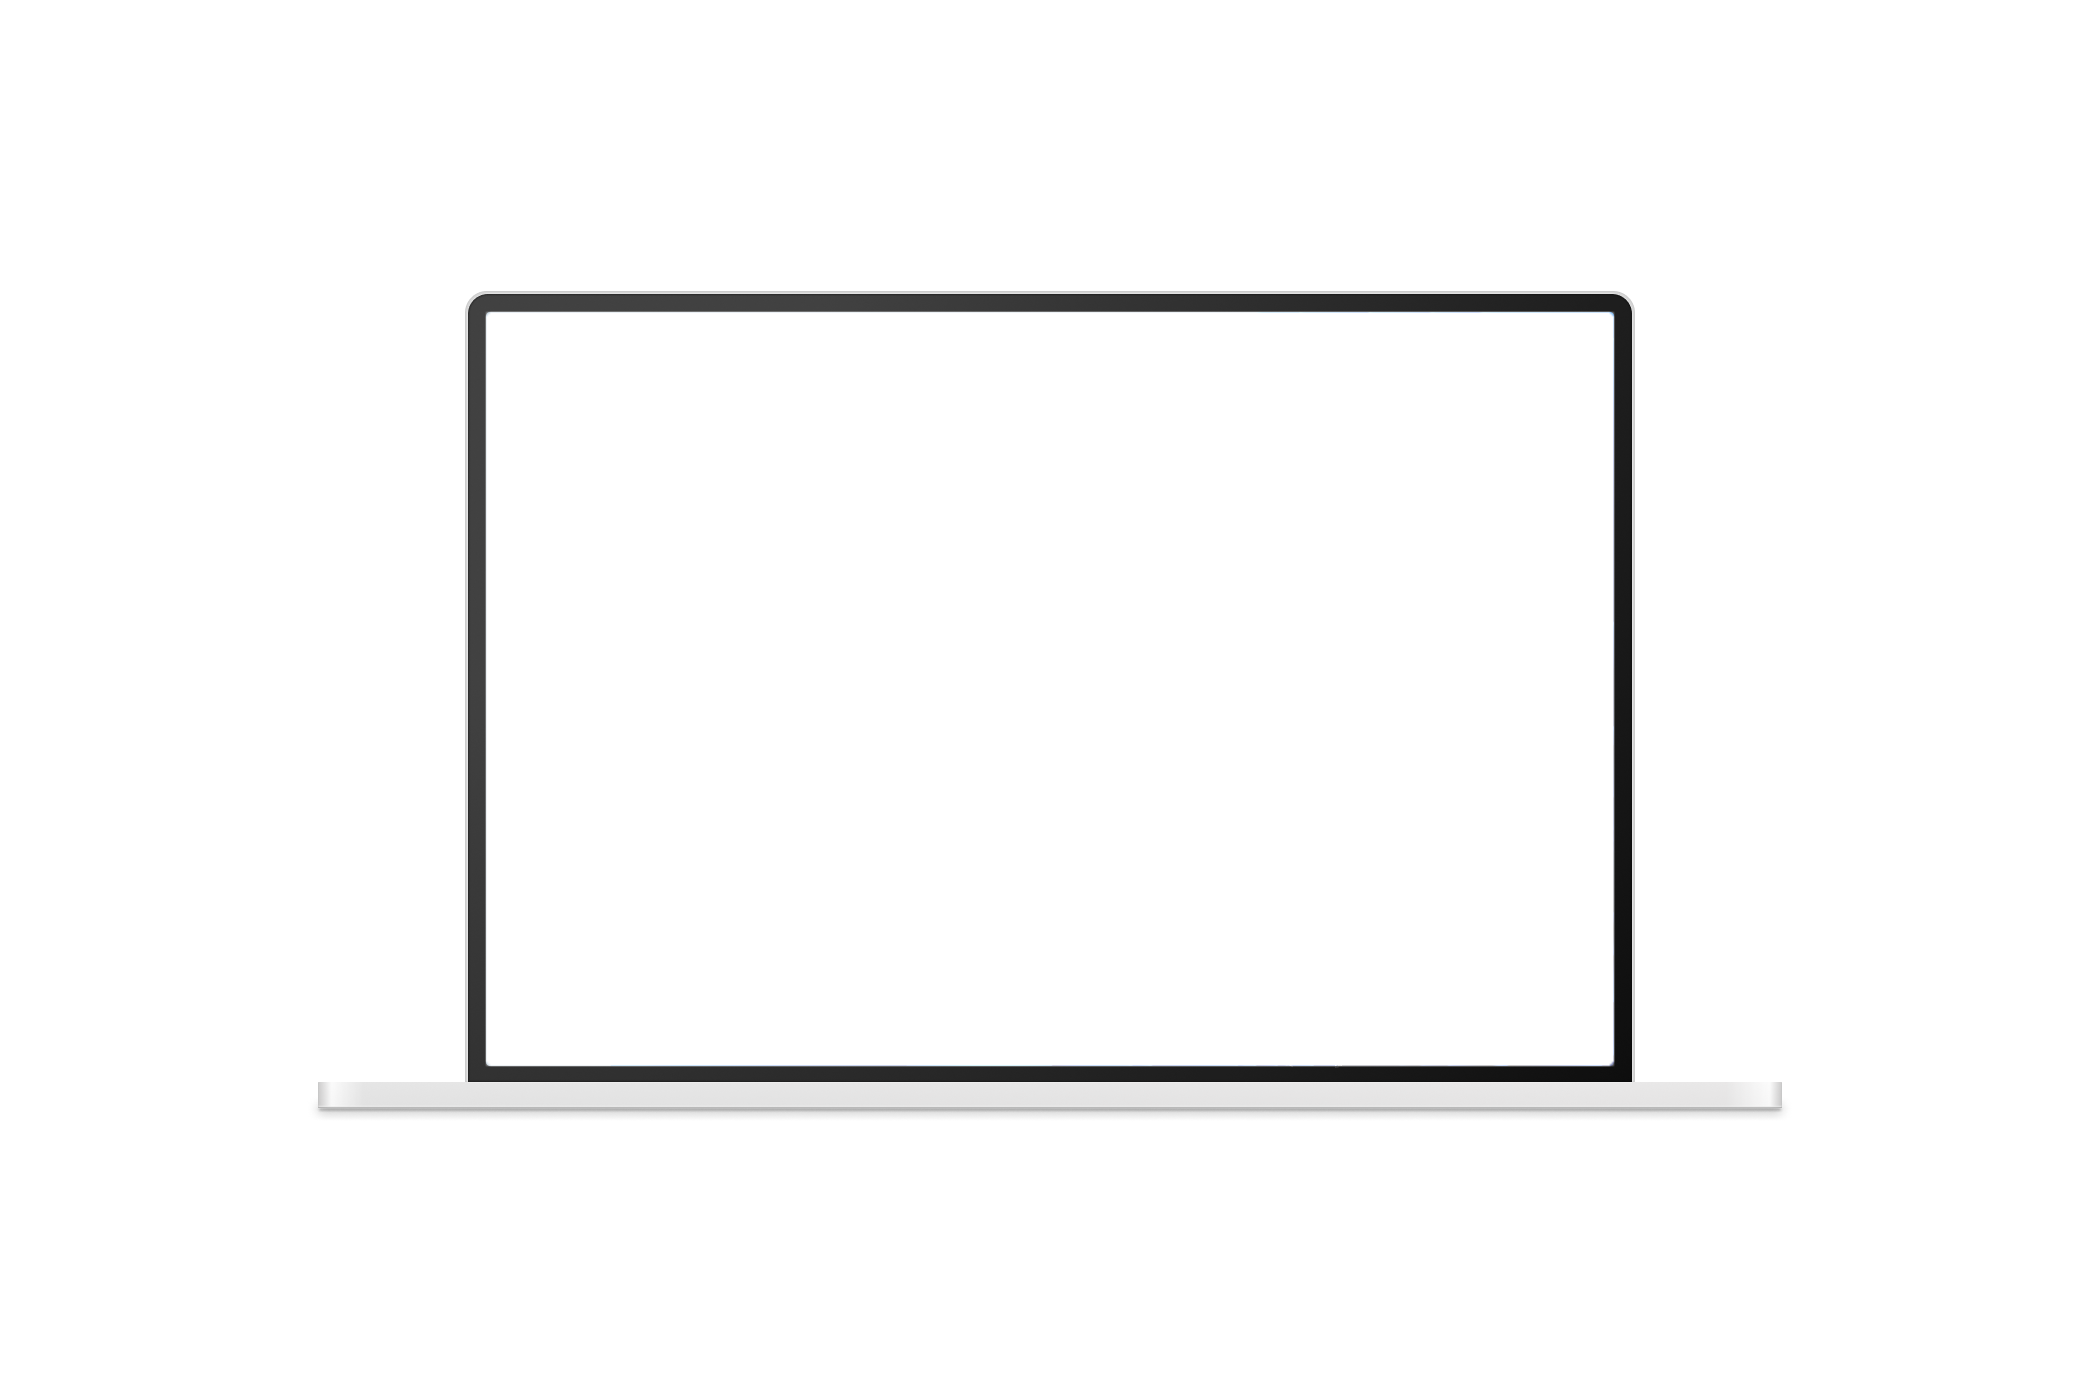
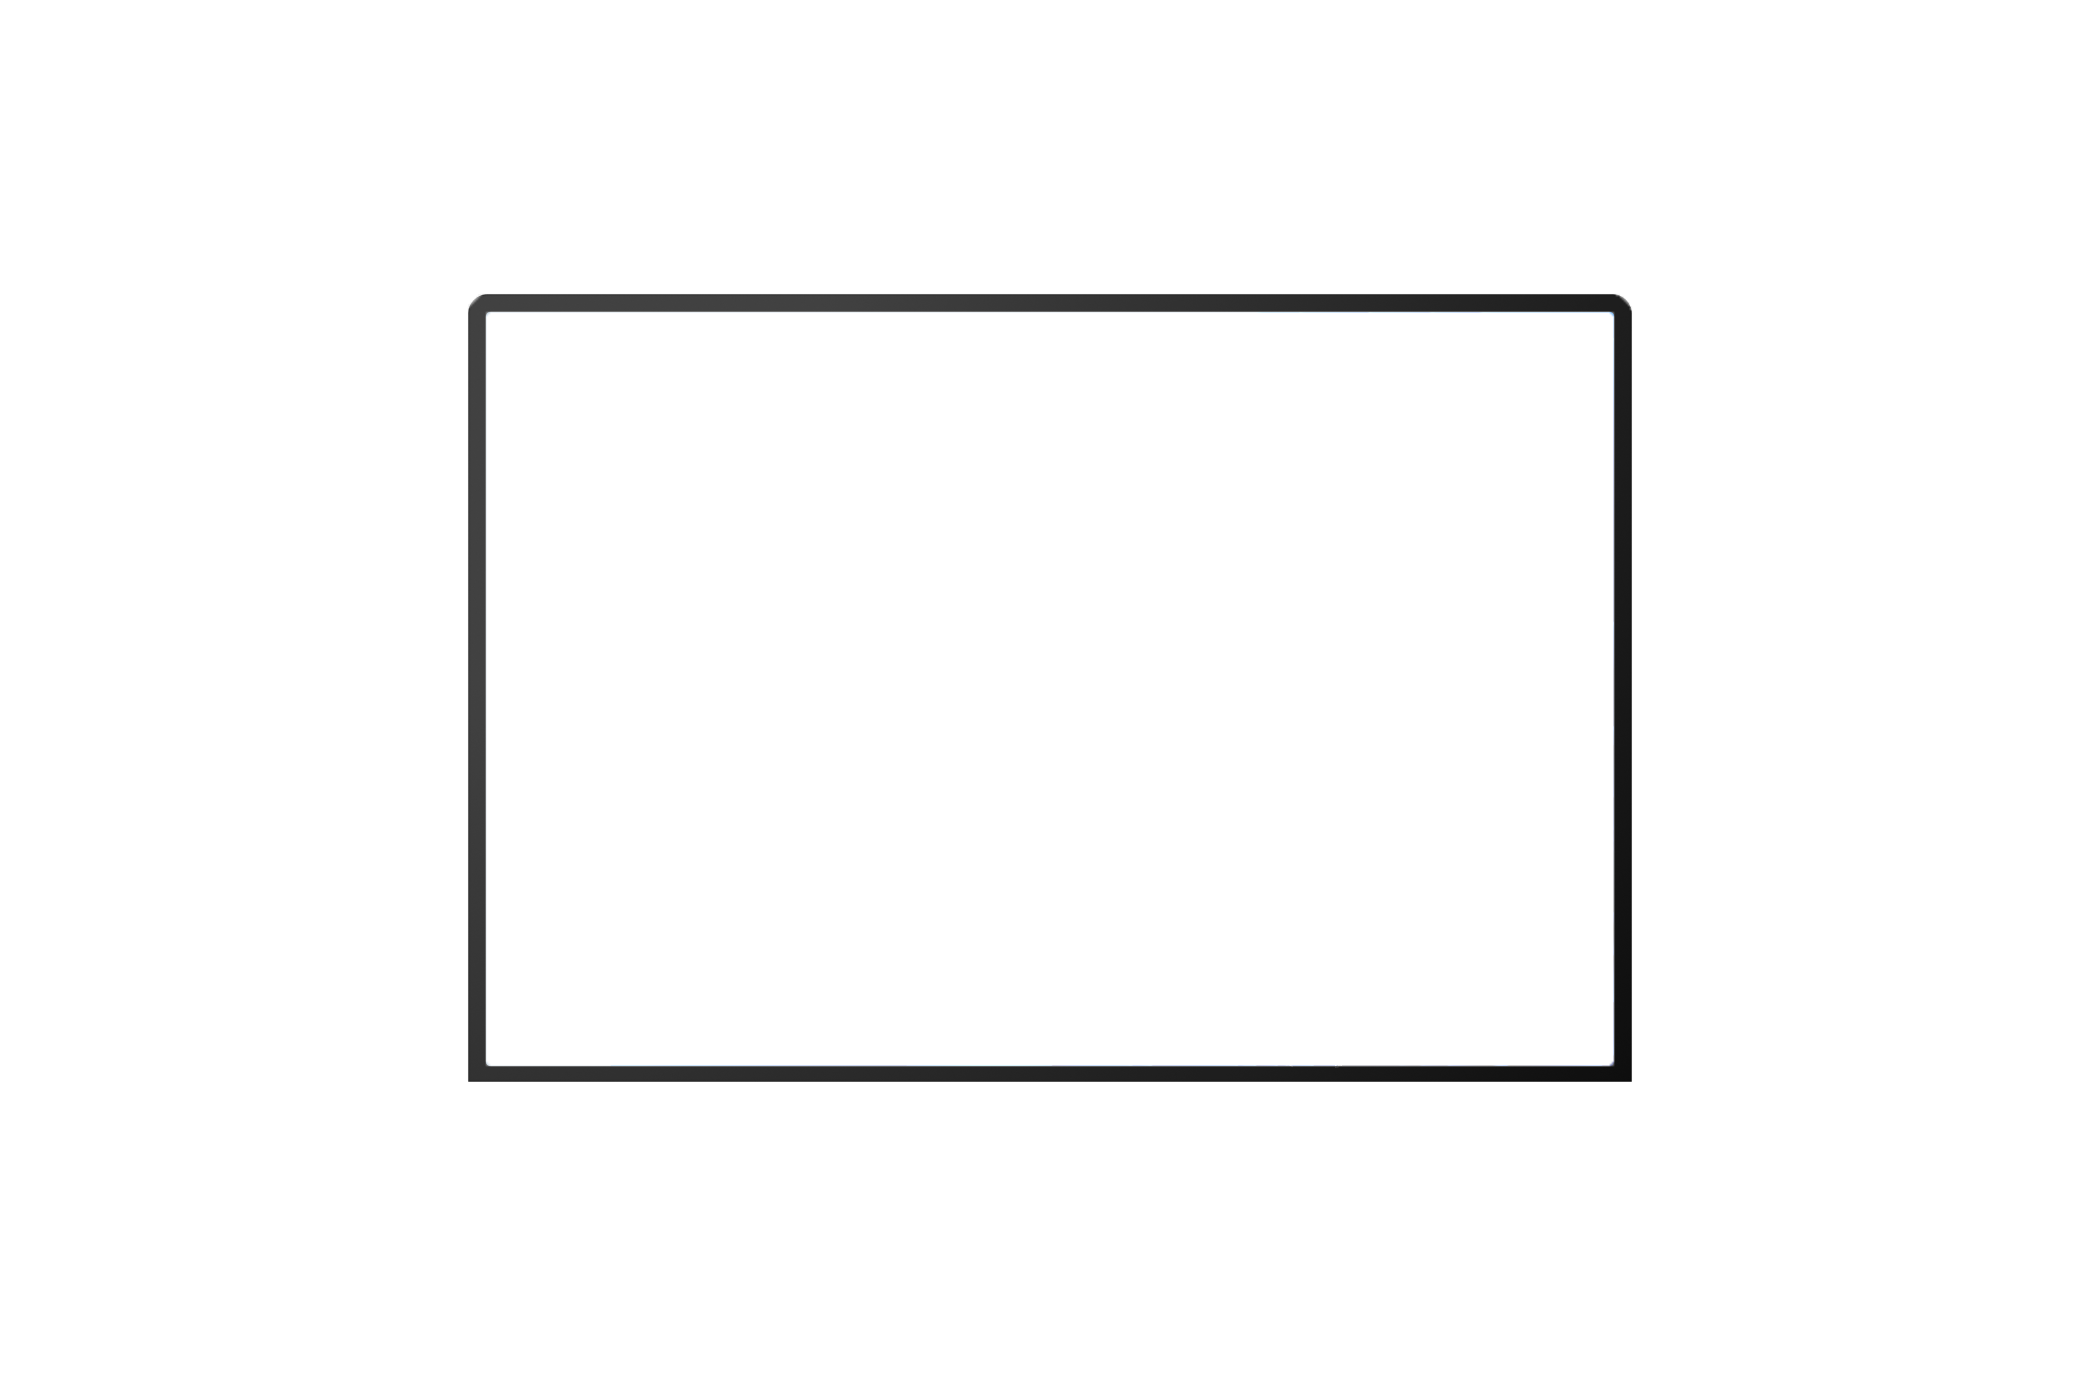
2025-03-28

Changed region(s): [[0.1548, 0.7679, 0.8667, 0.7986]]

diff --git a/src/css/Work.css b/src/css/Work.css
@@ -13,60 +13,45 @@
 }
 #Work .Work_container{
   width: 100%;
-  margin: auto;
-  position: relative;    
-  box-shadow: 2px 2px 20px #AEA9BA;
+  margin: auto;  
+  position: relative;
 }
 #Work .Work_container .Work_item{
   width: 100%;
   display: flex;
   justify-content: space-between;
-  align-items: center;        
+  align-items: center;          
 }
-#Work .Work_container .slide_btn{  
-  cursor: pointer;      
-  display: flex;
-  justify-content: center;
-  align-items: center;
-  position: absolute;
-  top: 100%;
-  right: 3%;
-  padding: 16px;    
-}
-#Work .Work_container .slide_btn>figure{  
-  width: 32px;
-  height: 32px;    
-  margin: 0 16px;
-}
-#Work .Work_container .Work_item .Work_L{
-  width: calc(100%-148px)/2;        
-  font-weight: 700;
-  gap: 16px;        
-  height: 70vh;  
-  flex: 1;
-}
-#Work .Work_container .Work_item .Work_L .Work_image{
-  width: calc(100%-148px)/2;  
-  height: 70vh;  
+.Work_item{  
+  width: 100%;
+  max-width: 1600px;
+  display: flex;  
+  gap: 16px;  
   overflow: hidden;
-  font-size: 2rem;  
-  gap: 16px;        
   position: relative;
 }
-#Work .Work_container .slide_number{    
-  position: absolute;
-  top: 100%;
-  left: 3%;
-  padding: 16px;      
-  font-size: 1.2rem;
-  font-weight: 500;
+.Work_item .Work_L{
+  width: 50%;
+  height: 70vh;    
+  overflow: hidden;  
 }
-.img_container{    
-  display: flex;
-  flex-direction: column;
-  align-items: center;  
-  gap: 24px;
-  background-color: #fff;  
+.Work_L .Work_image{
+  width: 100%;
+  position: relative;    
+}
+.Work_image .img_frame{   
+  position: absolute;      
+  top: 0%;
+  left: 0%;    
+  transform: scale(1.7);
+  overflow: hidden;    
+  margin: 0 auto;
+  align-content: center;
+}
+.Work_image .img_container{
+  width: 100%;
+  height: 50vh;
+  overflow: hidden; 
 }
 .Work_image_info{
   text-align: center;
@@ -77,12 +62,14 @@
 }
 #Work .Work_container .Work_item .Work_description{  
   width: 100%;
-  height: 80vh;  
-  border-left: 2px dashed #494554;    
-  overflow: hidden;  
-  padding: 2%;
+  height: 80vh;         
+  padding: 2%;  
   align-self: flex-start;  
   flex: 1;
+  z-index: 1;
+}
+.Work_description .Work_Time{
+  margin-bottom: 32px !important;
 }
 .Work_description .Work_title,
 .Work_description .Work_Time,
@@ -91,38 +78,70 @@
 .Work_description .uiux .Work_UIUX{    
   display: flex;  
   align-items: center;        
-  margin: 20px auto;    
+  margin: 8px auto;      
 }
 .Work_description .item_more{
   margin: 20px auto;  
   font-size: 1.2rem;
-  font-weight: 700;
+  font-weight: 700;  
 }
 .Work_description .item_more:hover{
-  color: #9481EB;
+  color: #9481EB;  
 }
 .design_Element>.Element{
   display: flex;      
   justify-content: flex-start;
   align-items: center;    
   gap: 8px;
-  font-size: 1rem;  
+  font-size: 1rem;
+  line-height: 200%;  
+}
+.Element:last-child{
+  margin-bottom: 32px;
 }
 .Work_description .useTools .tools_icon{
   display: flex;
   justify-content:flex-start;
   gap: 16px;       
+  margin-bottom: 32px;
 }
 .Work_description .Work_title>h3,
 .Work_description .design .design_box>h3,
 .Work_description .useTools .tools_title>h3,
 .Work_description .uiux .Work_UIUX>h3{
-  font-size: 1.5rem;  
+  font-size: 1.5rem;    
 }
 .Work_description .Work_title>span,
 .Work_description .design .design_box>span,
 .Work_description .useTools .tools_title>span,
 .Work_description .uiux .Work_UIUX>span{
   font-size: 1rem;  
-  color: #AEA9BA;      
+  color: #AEA9BA;          
+}
+.Work_description .uiux{
+  margin-bottom: 32px;  
+}
+#Work .Work_container .slide_number{    
+  position: absolute;
+  top: 100%;
+  left: 3%;
+  padding: 16px;      
+  font-size: 1.2rem;
+  font-weight: 500;
+}
+#Work .Work_container .slide_btn{  
+  cursor: pointer;      
+  display: flex;
+  justify-content: center;
+  align-items: center;
+  position: absolute;
+  top: 100%;
+  right: 3%;
+  padding: 16px;    
+  z-index: 1;
+}
+#Work .Work_container .slide_btn>figure{  
+  width: 32px;
+  height: 32px;    
+  margin: 0 16px;
 }

diff --git a/src/component/Work.js b/src/component/Work.js
@@ -26,6 +26,9 @@ function Work() {
       image_web: "/img/work/GongCha_Web.png",
       image_tablet: "/img/work/GongCha_Tap.png",
       mage_mobile: "/img/work/GongCha_Mobile.png",      
+      frame_web:"/img/work/Light.png",      
+      frame_tablet: "/img/work/iPad.png",
+      frame_mobile: "/img/work/iPhone X.png",
       href: "https://gong-cha-clone.vercel.app/"
     },
     {
@@ -49,10 +52,13 @@ function Work() {
       UIUX_kr: "UI/UX",
       UIUX_en: "[UI/UX_Improvements Points]",
       description:
-        "2025년 웹 퍼블리셔 취업을 목표로 제작한 포트폴리오입니다. 다양한 포트폴리오를 참고하여 웹 퍼블리셔에 대한 정보 전달이 효과적으로 이루어질 수 있도록 구성하였습니다. 좌측 이미지는 실제 작업물이 아니라, 디자인 단계에서 Figma를 활용해 제작한 와이어프레임 이미지입니다. 제작 과정에서 사용성이 어색한 부분을 지속적으로 수정하고, 필요한 기능을 구현하며 완성도를 높여 나가며 현재 지속적으로 제작 진행중입니다.",
+        "#2025년 #상반기 #신입 #웹퍼블리셔 #취업 #취뽀를목표로! #신입의포트폴리오 #레퍼런스 #인사정보전달 #디자인단계 #Figma #와이어프레임 #제작과정 #시행착오중 #UI/UX #지속적수정 #기능구현 #완성도 #현재진행형 #제작진행중",
       image_web: "/img/work/portfolio_최종_Web.png",
       image_tablet: "/img/work/portfolio_최종_Tap.png",
       image_mobile: "/img/work/portfolio_최종_Mobile.png",
+      frame_web:"/img/work/Light.png",      
+      frame_tablet: "/img/work/iPad.png",
+      frame_mobile: "/img/work/iPhone X.png",
       href: "https://2025-portfolio-henna.vercel.app/"
     },
   ];
@@ -90,11 +96,22 @@ function Work() {
     if (!work) return null;
     
     if (windowWidth <= 500) {
-      return work.image_mobile;
+      return work.frame_web;
     } else if (windowWidth <= 1024) {
       return work.image_tablet;
     } else {
       return work.image_web;
+    }
+  };
+  const imgWidthFrameSrc = (work) => {
+    if (!work) return null;
+    
+    if (windowWidth <= 500) {
+      return work.frame_mobile;
+    } else if (windowWidth <= 1024) {
+      return work.frame_tablet;
+    } else {
+      return work.frame_web;
     }
   };
 
@@ -113,14 +130,13 @@ function Work() {
                 style={{ display: index === currentIndex ? "block" : "none" }}
               >
                 <figure className="img_frame">
-                  <img key={Work.id} src={imgWidthSrc(Work)} alt={Work.title} />
-                </figure>                
+                  <img key={Work.id} src={imgWidthFrameSrc(Work)} alt={Work.title} />
+                </figure>            
                 <figure className="img_container">
                   <img key={Work.id} src={imgWidthSrc(Work)} alt={Work.title} />
-                </figure>                
-              </div>
+                </figure>       
 
-              <p className='Work_image_info'>사진을 스크롤하여 페이지 확인이 가능합니다</p>
+              </div>             
          
             </div>
 

diff --git a/src/css/MQ.css b/src/css/MQ.css
@@ -178,10 +178,22 @@
     bottom: 0% !important;
     right: -70% !important;
   }
-  
-  #Work .Work_container .Work_item {
-    display: flex;
-    flex-direction: column !important;
+  #Work .Work_container .Work_item{
+    flex-direction: column;
+  }
+  .Work_item .Work_L{   
+    height: 40vh !important;    
+    overflow: hidden;  
+    box-shadow: 0px 8px 8px 0px #494554;
+    border-top-left-radius: 25px;
+    border-top-right-radius: 25px;
+  }
+  .Work_image .img_frame{        
+    transform: scale(1) !important;          
+    overflow: hidden;      
+  }
+  #Work .Work_container .Work_item .Work_description{
+    padding: 20% !important;
   }
 }
 
@@ -196,6 +208,9 @@
   .menu.open {
     width: 12vw;
   }
+  .Work_item .Work_L{   
+    height: 30vh !important;       
+  } 
 }
 
 @media (max-width: 650px) {

diff --git a/src/component/Contact.js b/src/component/Contact.js
@@ -33,7 +33,7 @@ function Contact() {
         </p>
         <figure>
           <img
-            src="/img/main/KakaoTalk_20250312_114720165.jpg"
+            src="/img/main/KakaoTalk_QR.jpg"
             alt="카카오톡 친구추가 QR코드"
           />
         </figure>
